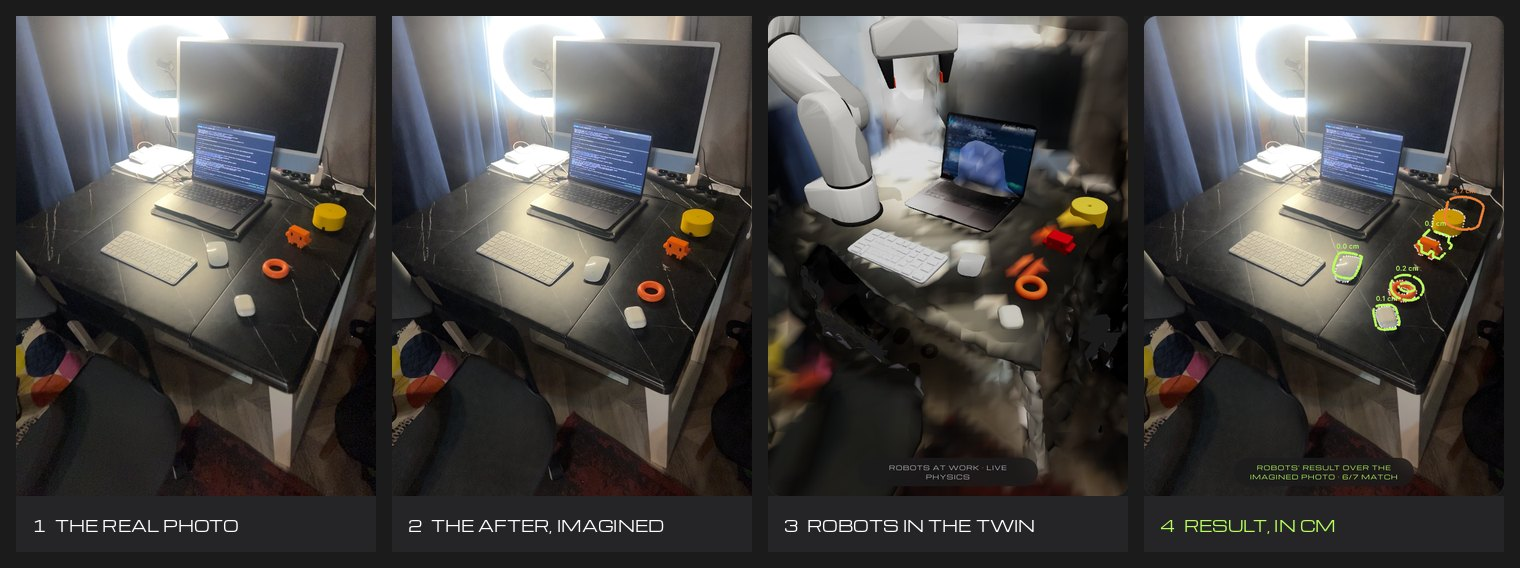
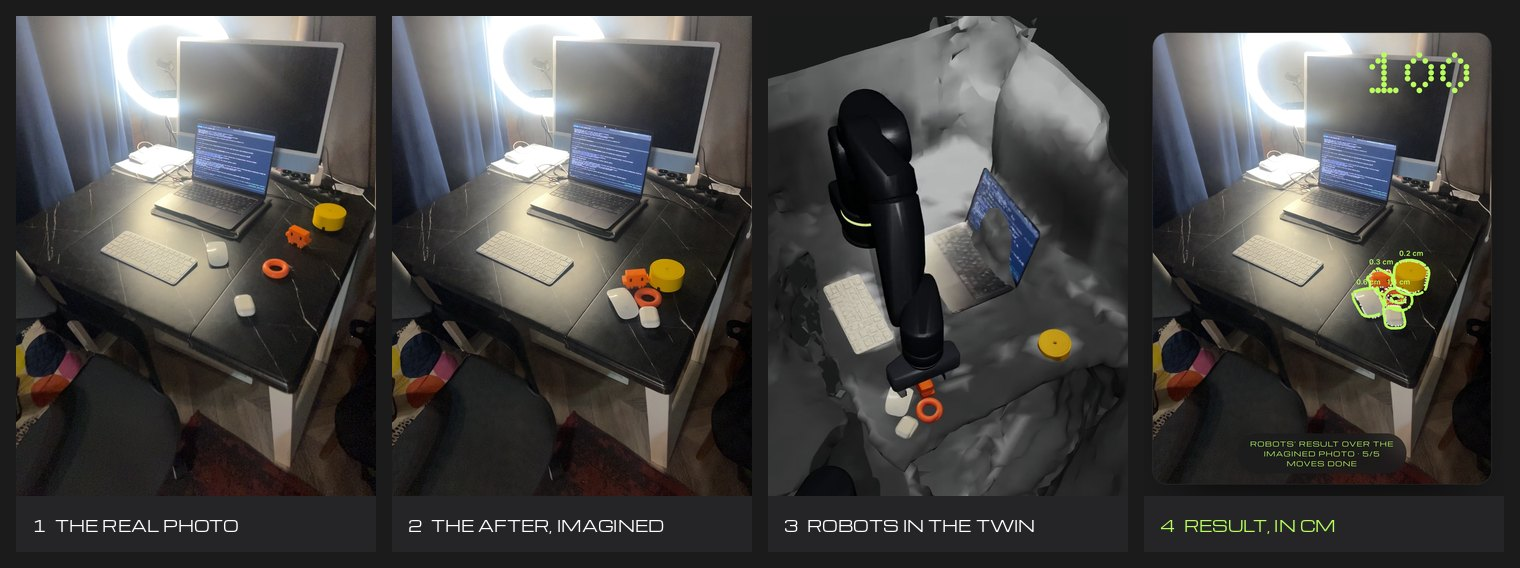
docs: the README strip shows the five-move run, so before and after differ at a glance

Changed region(s): [[0.3711, 0.0299, 0.9895, 0.8979], [0.8349, 0.5687, 0.8658, 0.5986], [0.773, 0.5088, 0.8039, 0.5387]]

diff --git a/README.md b/README.md
@@ -17,9 +17,9 @@
 
 ![Before → imagined after → robots in the twin → receipt](docs/images/loop.jpg)
 
-*A real run on a scanned desk: the hero photo, Muse Image's approved after photo (versions that lost an
-object were rejected by SAM 3.1), the arm moving the objects in MuJoCo, and the robots' result drawn over
-the imagined photo with the error of every object.*
+*A real run on a scanned desk, “Put all the small things together in one corner”: the hero photo, Muse
+Image's approved after photo (SAM 3.1 rejected four of the six versions), the arm moving the five objects
+in MuJoCo, and the robots' result over the imagined photo: 5 of 5 moves within 3 cm, score 100.*
 
 ## Why
 
